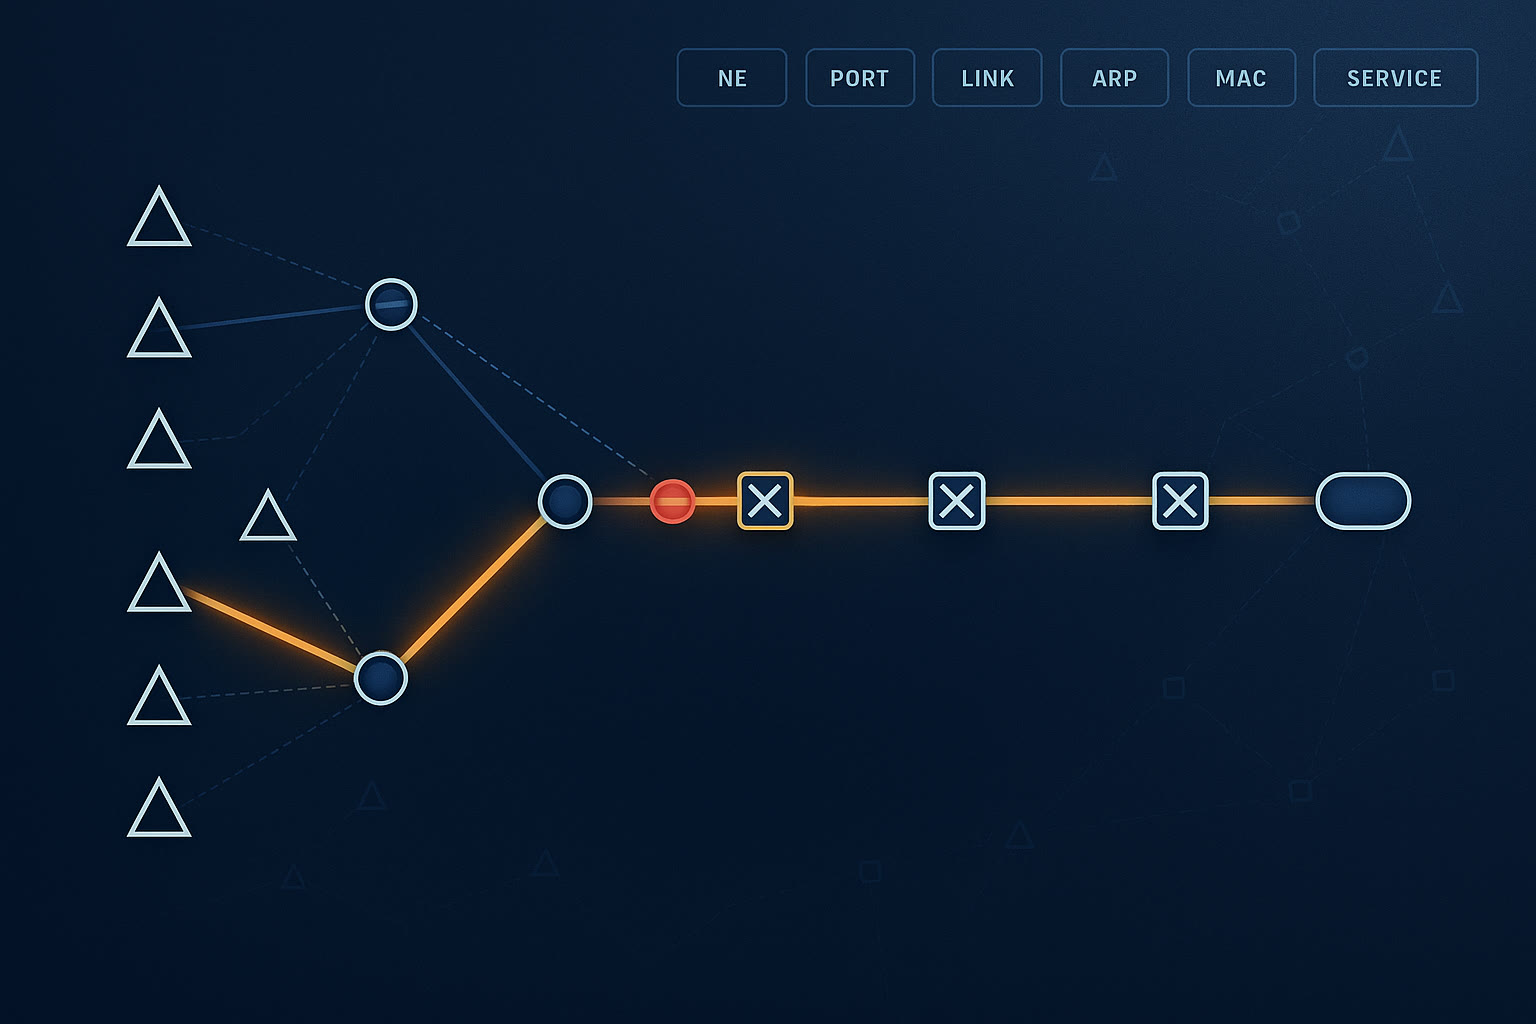
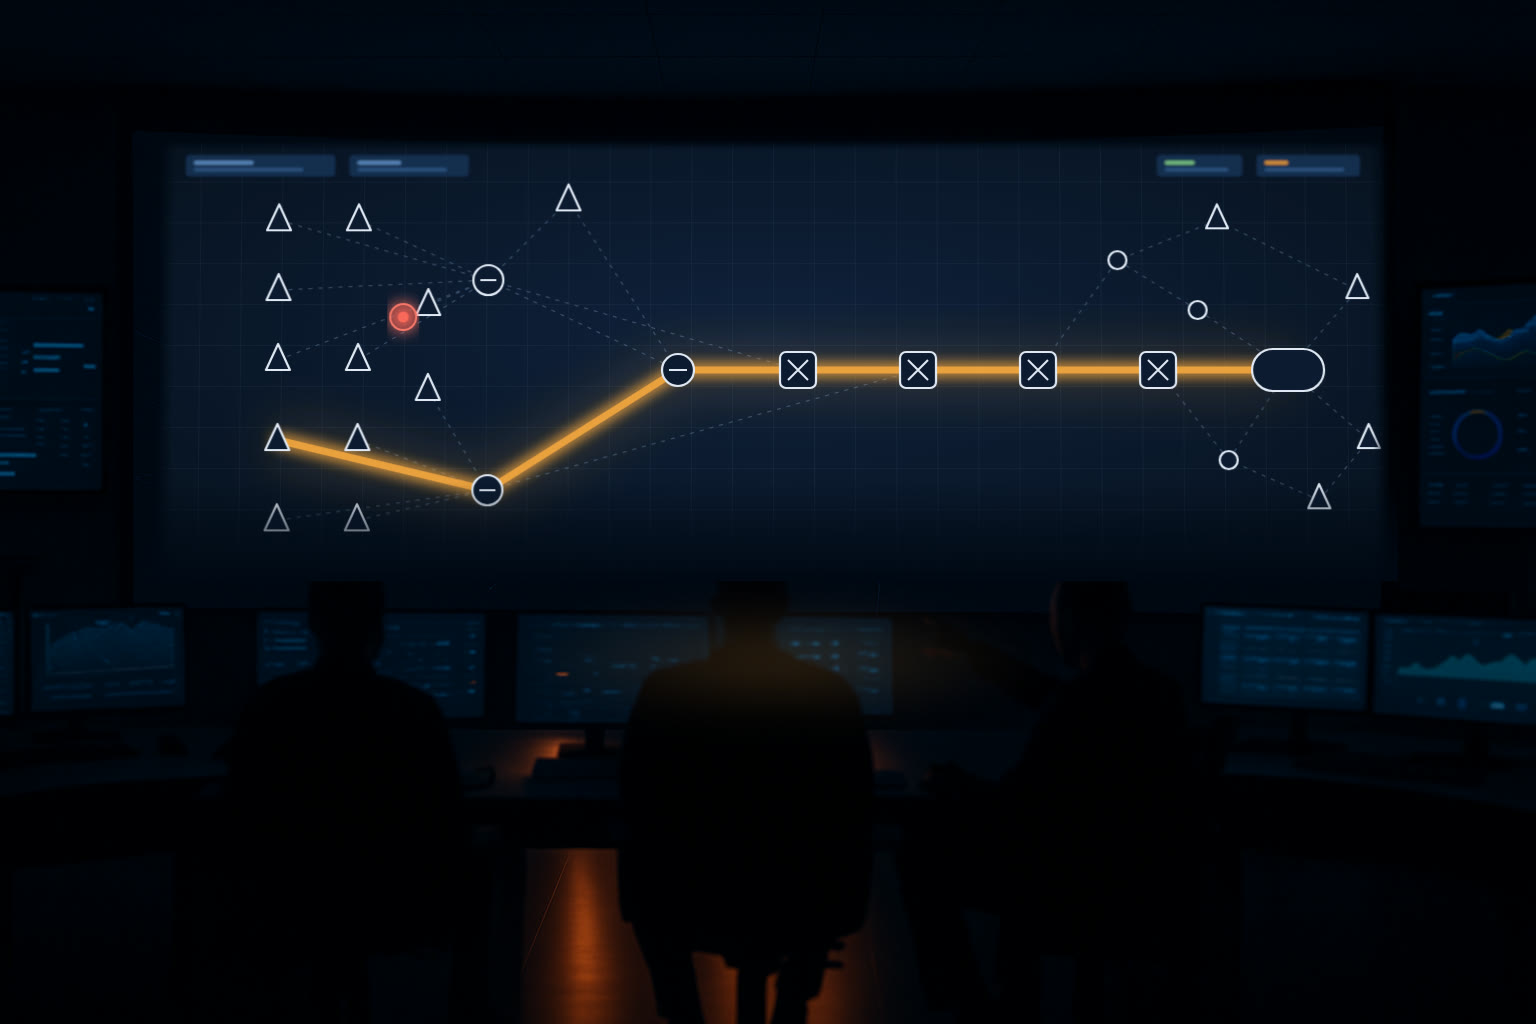
feat(blog): topology hero becomes a NOC scene with the map on the video wall
The previous hero was a flat schematic. Correct, but a figure, not a hero: every
other hero on this site is a scene - a city at dusk with towers, an illustrated
room with people - and next to those a wireframe reads as unfinished. The
operator's direction was a network operations centre with the map on the big
screen, which is also a better fit for the article's argument that the map is
the product.

How it was made, because the obvious route does not work: the image model
generates the room well and cannot draw a specific route through specific nodes.
Two prompt-only attempts and two corrective edits all produced dangling links,
garbled labels, or an amber path that stopped at the first router. So the model
provides only the scene - a text-free NOC with a near-blank display - and the
map is rendered in SVG and composited onto the display in code: the screen
region is repainted with its own sampled colour so nothing underneath shows
through, edges are feathered so no rectangle appears, and the display fades into
the room before the operators' heads so no seam sits above them.

Every connection on the screen is therefore real: sites to microwave hubs to a
router chain to the core, one amber service path end to end, one red marker on
a site-to-hub link. Alt text now describes that scene.

diff --git a/blog/topology-restoration-alarm-correlation/index.html b/blog/topology-restoration-alarm-correlation/index.html
@@ -22,7 +22,7 @@
 <meta property="og:image:type" content="image/jpeg">
 <meta property="og:image:width" content="1200">
 <meta property="og:image:height" content="630">
-<meta property="og:image:alt" content="Engineering plate of a mobile backhaul map with one restored service path in amber and a failed microwave link marked in red">
+<meta property="og:image:alt" content="Network operations centre video wall showing a restored mobile backhaul topology, one service path in amber and a failed microwave link in red">
 <meta property="article:published_time" content="2026-09-22">
 <meta property="article:modified_time" content="2026-09-22">
 <meta property="article:author" content="Mohamed Kadri">
@@ -190,7 +190,7 @@
   <div class="meta">Mohamed Kadri &middot; September 22, 2026 &middot; 14 min read &middot; <a href="#video">6-minute video version</a></div>
 
   <figure class="hero">
-    <img src="/assets/topology-hero.jpg" alt="An engineering plate of a mobile backhaul map: seven base stations, three microwave hubs, a microwave trunk, access and aggregation routers and a core, with one restored service path in amber, generated links dashed, a failed link marked in red, and six raw table names along the top" width="1536" height="1024">
+    <img src="/assets/topology-hero.jpg" alt="A network operations centre at night: three operators at consoles face a curved video wall. The central display shows the restored network topology - cell sites feeding microwave hubs and a chain of routers into the core - with one service path highlighted in amber and one failed microwave link marked in red." width="1536" height="1024">
     <figcaption>Nobody exports this picture. It is computed, every night, from six kinds of raw table.</figcaption>
   </figure>
 
